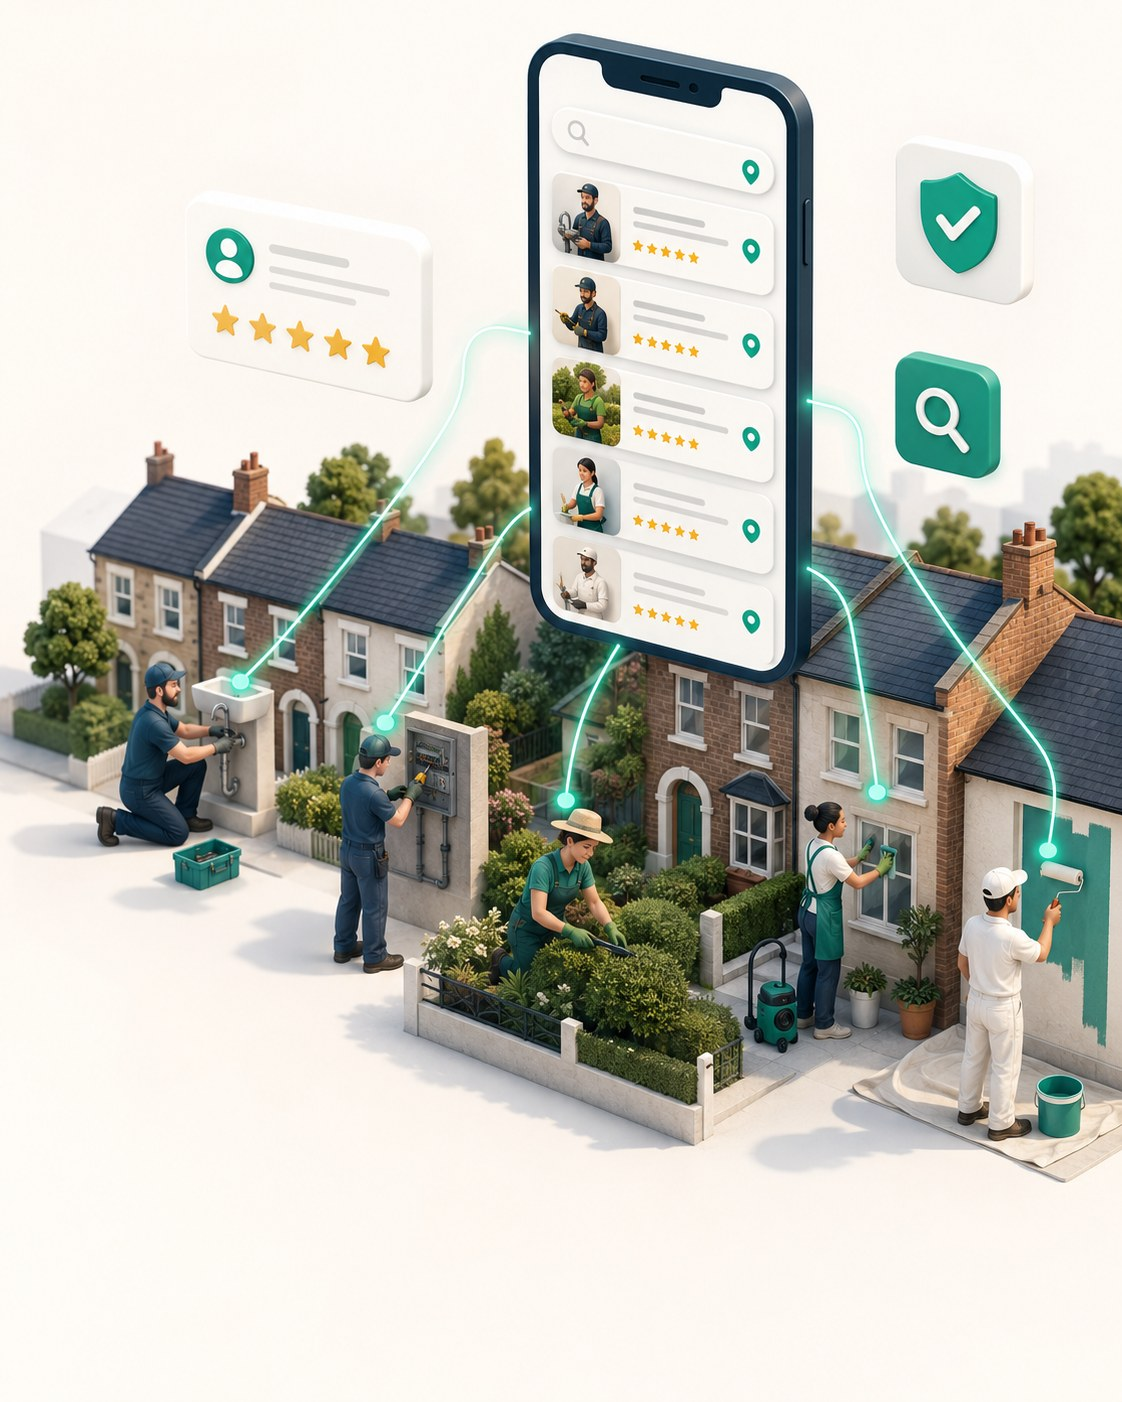
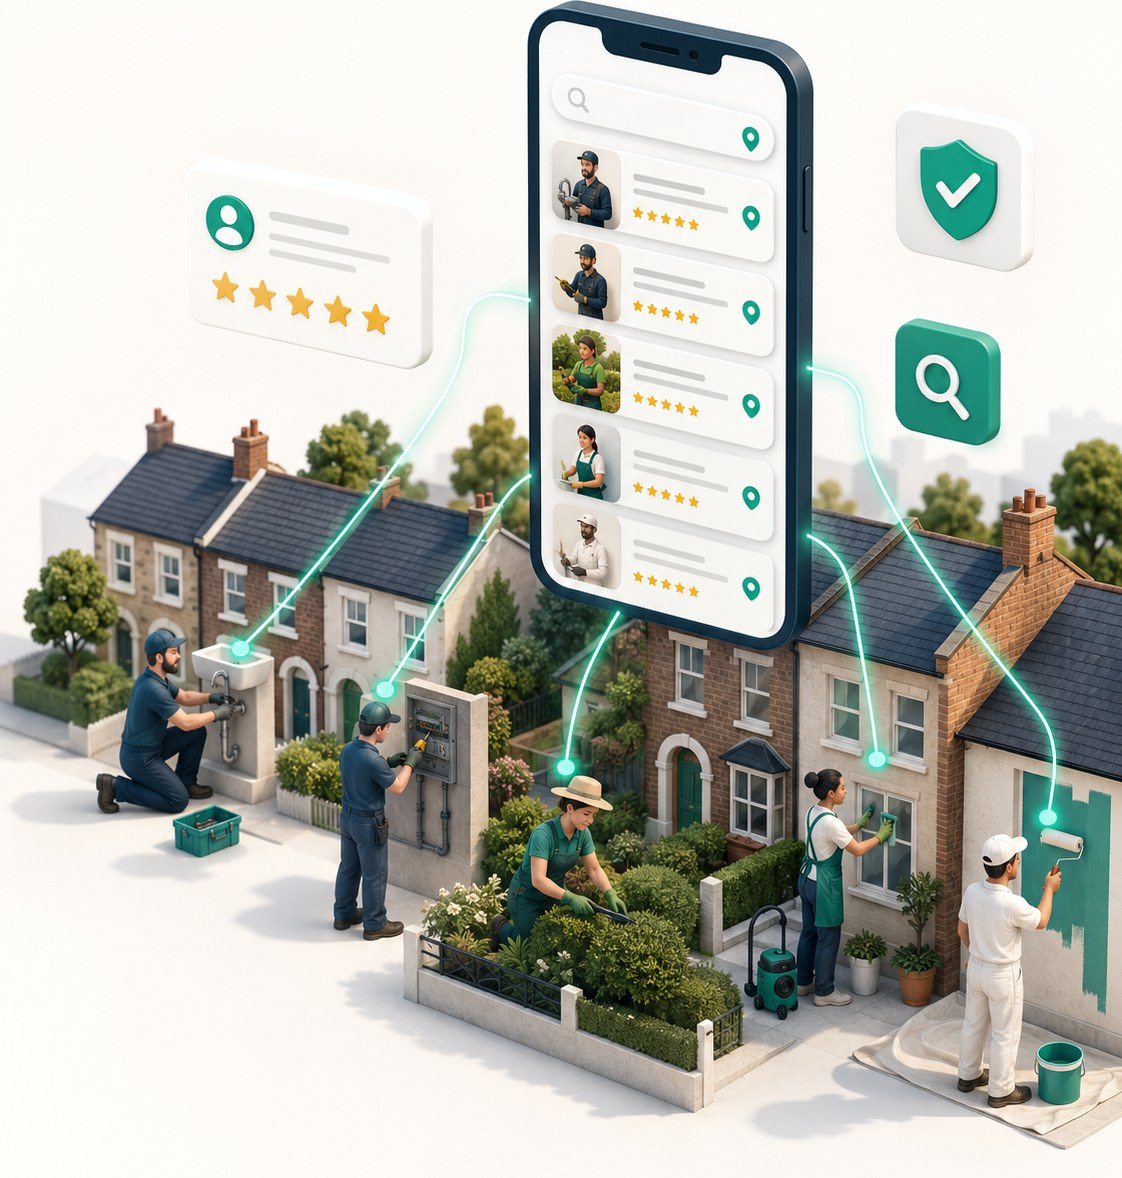
Hero: an illustration of the actual product, not a stock photo
The photo heroes only ever showed one professional. That says "here is a
tradesman" — it doesn't say what SelfeConnect is. A first-time visitor still had
to read the copy to learn there is a marketplace, a search, and reviews behind
it.

This illustration says it in one frame: a street of homes with a plumber,
electrician, gardener, cleaner and decorator all at work, each linked back to a
phone showing local professionals ranked with star ratings — plus the search and
the verified badge. Breadth of trades, matching by location, and reviews, all
visible before a word is read.

Treatment: the artwork carries its own review and verified cards, so the floating
overlay is gone (two review cards would have been clutter) and so is the card
chrome — a bordered, shadowed box around an illustration drawn on a flat ground
just fenced it off from the page. Instead the illustration's ground is colour-
matched to the page's, so it sits on the page rather than in a box. Trimmed of
its dead margin (1402->1178px) and re-encoded as a real progressive JPEG, 229 KB.

Verified: hero search still works, no console errors, holds up on mobile.

diff --git a/frontend/src/routes/index.tsx b/frontend/src/routes/index.tsx
@@ -10,7 +10,6 @@ import {
   ArrowRight,
   QrCode,
   Star,
-  BadgeCheck,
   Lock,
   ChevronDown,
   ChevronLeft,
@@ -417,8 +416,9 @@ function Home() {
               src={heroImg}
               alt="SelfeConnect connects people with reviewed local professionals — plumbers, electricians, gardeners, cleaners and painters — through one app, matched by service and postcode."
               width={1122}
-              height={1402}
-              className="w-full"
+              height={1206}
+              className="h-auto w-full select-none"
+              draggable={false}
             />
           </div>
         </div>
